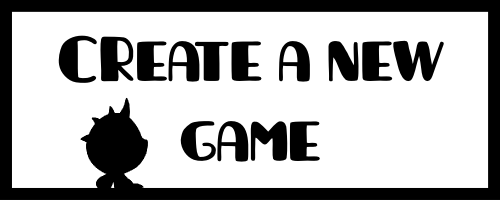
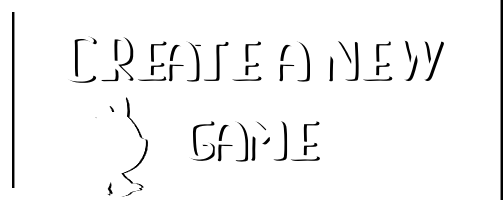
Cleaning main menu with right assets

diff --git a/src/menu/WelcomeUnknownMenu.cpp b/src/menu/WelcomeUnknownMenu.cpp
@@ -4,6 +4,9 @@
 
 namespace Symp {
 
+extern int g_WindowHeight;
+extern int g_WindowWidth;
+
 /**
 * @brief WelcomeUnknownMenu constructor
 * Responsible for the initialization of the private attributes of the #WelcomeUnknownMenu class. This function
@@ -30,33 +33,39 @@ WelcomeUnknownMenu::WelcomeUnknownMenu()
 * @see WelcomeUnknownMenu()
 */
 void WelcomeUnknownMenu::init(){
-	//Title
-	m_titleImage = new Image("../assets/menu/title.png", 200, 50);
-	MenuManager::getInstance()->addGuiComponent(m_titleImage, 0);
+	m_background = new Image("../assets/menu/main-menu-background.png");
+	m_background->setWidth(g_WindowWidth);
+	m_background->setHeight(g_WindowHeight);
+	m_background->setAspectRatio(AspectRatio::IGNORE_ASPECT_RATIO);
+	MenuManager::getInstance()->addGuiComponent(m_background, 0);
 
 	//Create the layout
-	m_buttonLayout = new Layout(200, 150, 400, 350);
+	int layoutWidth = g_WindowWidth*0.25;
+	int layoutHeight = g_WindowHeight*0.5;
+	m_buttonLayout = new Layout(g_WindowWidth/2 - layoutWidth/2, g_WindowHeight/2 - layoutHeight/2, layoutWidth, layoutHeight);
 
 	//Create a new game button
-	m_createGameButton = new Button("Create A New Game", Symp::Color::RED);
+	m_createGameButton = new Image("../assets/menu/create-new-game.png");
+	m_createGameButton->setColor(Color::BLUEDINO);
+	m_createGameButton->enable();
+	m_createGameButton->setAspectRatio(AspectRatio::IGNORE_ASPECT_RATIO);
 	m_buttonLayout->addComponent(m_createGameButton, 0, 0);
-	MenuManager::getInstance()->addGuiComponent(m_createGameButton->getTextEntity(), 1);
 
 	//Manage games button (disabled)
-	m_manageGamesButton = new Button("Manage Games", Symp::Color::GREY);
-	m_manageGamesButton->disable();
+	m_manageGamesButton = new Image("../assets/menu/manage-games.png");
+	m_manageGamesButton->setColor(Color::BLACK);
+	m_manageGamesButton->setAspectRatio(AspectRatio::IGNORE_ASPECT_RATIO);
 	m_buttonLayout->addComponent(m_manageGamesButton, 0, 1);
-	MenuManager::getInstance()->addGuiComponent(m_manageGamesButton->getTextEntity(), 1);
-
-	m_buttonLayout->insertSpace(0, 2);
 
 	//Quit button
-	m_quitButton = new Button("Quit Game", Symp::Color::GREY);
-	m_buttonLayout->addComponent(m_quitButton, 0, 3);
-	MenuManager::getInstance()->addGuiComponent(m_quitButton->getTextEntity(), 1);
+	m_quitButton = new Image("../assets/menu/quit-symptogen.png");
+	m_quitButton->setColor(Color::YELLOWDINO);
+	m_quitButton->enable();
+	m_quitButton->setAspectRatio(AspectRatio::IGNORE_ASPECT_RATIO);
+	m_buttonLayout->addComponent(m_quitButton, 0, 2);
 
 	//Settle the layout
-	MenuManager::getInstance()->addGuiLayout(m_buttonLayout, 0);
+	MenuManager::getInstance()->addGuiLayout(m_buttonLayout, 1);
 }
 
 /**

diff --git a/src/menu/Image.cpp b/src/menu/Image.cpp
@@ -19,7 +19,7 @@ namespace Symp {
 * @see GuiComponent
 */
 Image::Image( const char* filePath, float iPosX, float iPosY, float iScale)
-	: GuiComponent() {
+	: GuiComponent(), m_color(255, 255, 255){
 
 	// As a texture is given in parameter, then create a surface to display
 	setSurface(filePath);
@@ -118,14 +118,27 @@ void Image::update() {
 		//Handle events
 		if(m_bIsHovered && m_bIsEnabled){
 			//Color the button on the mouse hover, on the texture
-			m_pEntity2d->setTint(100,100,100);
-		}
-		else{
+			fill(m_color);
+		}else if(!m_bIsEnabled){
+			fill(m_color);
+		}else{
 			//Restore the Button texture
 			m_pEntity2d->setTint(255, 255, 255);
 		}
 
 	}
+}
+
+/**
+* @brief fill Image's background function
+* @see Image
+* @see ~Image()
+* @see Color
+* @see GuiComponent
+*/
+void Image::fill(Symp::Color color){
+	m_pEntity2d->setTint(color.r, color.g, color.b);
+	m_pEntity2d->setTransparency(color.a);
 }
 
 }

diff --git a/src/menu/WelcomeUnknownMenu.h b/src/menu/WelcomeUnknownMenu.h
@@ -28,11 +28,11 @@ public:
 	virtual void keyUpPressed();
 
 private:
-	Button* m_createGameButton; /**< the #Button that displays the NewGameMenu */
-	Button* m_quitButton; /**< the quit #Button */
-	Button* m_manageGamesButton; /**< the #Button for accesing the #ManageGamesMenu */
+	Image* m_background;/**< the #Image that displays the background */
+	Image* m_createGameButton; /**< the #Button that displays the NewGameMenu */
+	Image* m_quitButton; /**< the quit #Button */
+	Image* m_manageGamesButton; /**< the #Button for accesing the #ManageGamesMenu */
 	Layout* m_buttonLayout; /**< the main #Layout */
-	Image* m_titleImage; /**< the #Image that displays the title */
 
 };
 

diff --git a/src/menu/NewGameMenu.cpp b/src/menu/NewGameMenu.cpp
@@ -38,11 +38,11 @@ NewGameMenu::NewGameMenu()
 void NewGameMenu::init(){
 
 	// The go back button up-left of the window
-	m_pBackButton = new Button("../assets/menu/back.png");
+	m_pBackButton = new Button("../assets/menu/back-to-menu.png");
 	MenuManager::getInstance()->addGuiComponent(m_pBackButton, 0);
 
 	//The title image
-	m_pTitleImage = new Image("../assets/menu/new_game.png", 200, 50);
+	m_pTitleImage = new Image("../assets/menu/create-new-game.png", 200, 50);
 	MenuManager::getInstance()->addGuiComponent(m_pTitleImage, 0);
 
 	// All the Avatars are initialized hidden

diff --git a/src/menu/Image.h b/src/menu/Image.h
@@ -39,17 +39,19 @@ public:
 
 	void show();
 	void hide();
+	void fill(Symp::Color color);
 
 	//Getter
 	AspectRatio getAspectRatio() const {return m_ratio;}
 	bool isShown() const {return m_pEntity2d->isShow();}
 
 	//Setter
+	void setColor(Color color) {m_color = color;}
 	void setAspectRatio(AspectRatio ratio) { m_ratio = ratio;}
 
 private:
 	AspectRatio m_ratio; /*!< the type of ratio that will be applyed for the updating of the #Image*/
-
+	Color m_color; /*!< the alternative tint color of the #Image, needed for an event for example */
 };
 
 }

diff --git a/src/menu/GuiComponent.h b/src/menu/GuiComponent.h
@@ -43,6 +43,8 @@ struct Color {
 	static const Color BLACK; /*!< Color black (0, 0, 0)*/
 	static const Color GREY;  /*!< Color grey (180, 180, 180)*/
 	static const Color WHITE; /*!< Color white (255, 255, 255)*/
+	static const Color BLUEDINO; /*!< Color of the Dino (121, 206, 206)*/
+	static const Color YELLOWDINO; /*!< Color of the Dino (253, 254, 24)*/
 
 	unsigned int r; /**< the amount of red in the color between 1 and 255 */
 	unsigned int g; /**< the amount of green in the color between 1 and 255 */

diff --git a/src/menu/GuiComponent.cpp b/src/menu/GuiComponent.cpp
@@ -17,6 +17,8 @@ const Color Color::GREEN = Color(0, 255, 0);
 const Color Color::GREY = Color(180, 180, 180);
 const Color Color::BLACK = Color(0, 0, 0);
 const Color Color::WHITE = Color(255, 255, 255);
+const Color Color::BLUEDINO = Color(121, 206, 206);
+const Color Color::YELLOWDINO = Color(253, 254, 24);
 
 /**
 * @brief GuiComponent constructor. 

diff --git a/src/persistence/Parser.cpp b/src/persistence/Parser.cpp
@@ -464,7 +464,7 @@ std::pair<Player*, std::vector<Player*>> ParserPlayer::loadPlayerData() {
 
 		}
 	}else{
-		std::cout << "Error while loading the players data." << std::endl;
+		std::cout << "No players data." << std::endl;
 	}
 	return std::make_pair(lastPlayer, playerVector);
 }

diff --git a/src/GameManager.cpp b/src/GameManager.cpp
@@ -13,8 +13,8 @@
 
 namespace Symp {
 
-int g_WindowWidth = 1000;
-int g_WindowHeight = 800;
+int g_WindowWidth = 1024; //1280;
+int g_WindowHeight = 576; //720;
 
 GameManager::GameManager() {
 	IndieLib::init(IND_DEBUG_MODE);
